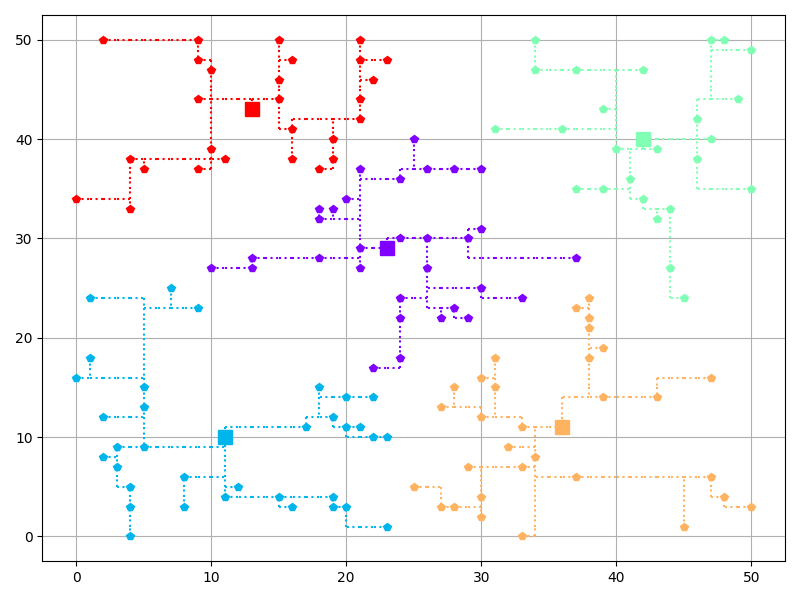
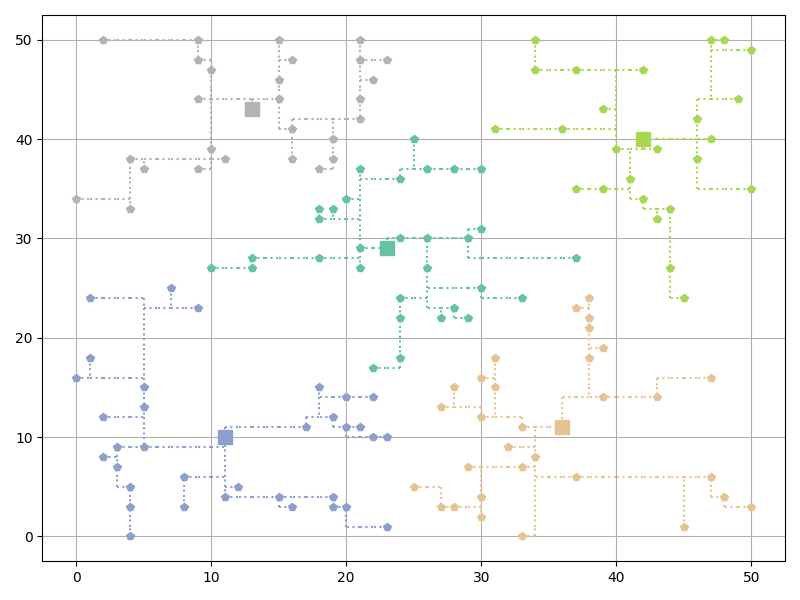
Color update

diff --git a/Huizen&Batterijen/experiment/grafiek.py b/Huizen&Batterijen/experiment/grafiek.py
@@ -1,37 +1,43 @@
 import seaborn as sns
 import pandas as pd
 import matplotlib.pyplot as plt
+from matplotlib import cm
+import numpy as np
 import os
 
 cwd = os.getcwd()
 sep = os.sep
+kleuren = cm.Set2(np.linspace(0, 1, 4))
 
 
 def histogram():
-    bestand = f'gecombineerd.csv'
-    df = pd.read_csv(bestand)
+    kmeans = pd.read_csv('KMeans_3_experiment.csv')
+    greedy = pd.read_csv('Greedy_3_experiment.csv')
+    random = pd.read_csv('Random_3_experiment.csv')
+    hillclimb = pd.read_csv('Hill_3_experiment.csv')
+
 
     # gemiddelde = np.mean(data)
     # standaard_af = np.std(data)
     #
-    fig, axs = plt.subplots(2, 2)
-    axs[0, 0].hist(df['kmeans'], density=True, color='r')
-    axs[0, 0].set_title('KMeans')
-    axs[1, 0].hist(df['greedy'], density=True, color='b')
-    axs[1, 0].set_title('Greedy')
-    axs[0, 1].hist(df['random'], density=True, color='g')
-    axs[0, 1].set_title('Random')
-    axs[1, 1].hist(df['hillclimber'], density=True, color='c')
-    axs[1, 1].set_title('Hill Climber')
+    # fig, axs = plt.subplots(2, 2)
+    # axs[0, 0].hist(kmeans, density=True, color='r', bins=1000)
+    # axs[0, 0].set_title('KMeans')
+    # axs[1, 0].hist(greedy, density=True, color='b', bins=1000)
+    # axs[1, 0].set_title('Greedy')
+    # axs[0, 1].hist(random, density=True, color='g', bins=1000)
+    # axs[0, 1].set_title('Random')
+    # axs[1, 1].hist(hillclimb, density=True, color='c', bins=1000)
+    # axs[1, 1].set_title('Hill Climber')
 
-    # plt.hist(df['kmeans'], density=True, color='r', label='KMeans', alpha=0.5, bins=50)
-    # plt.hist(df['greedy'], density=True, color='b', label='Greedy', alpha=0.5, bins=50)
-    # plt.hist(df['random'], density=True, color='g', label='Random', alpha=0.5, bins=50)
-    # plt.hist(df['hillclimber'], density=True, color='c', label='Hill Climber', alpha=0.5, bins=50)
-    # sns.kdeplot(df['kmeans'], linewidth=2)
-    # sns.kdeplot(df['greedy'], linewidth=2)
-    # sns.kdeplot(df['random'], linewidth=2)
-    # sns.kdeplot(df['hillclimber'], linewidth=2)
+    plt.hist(kmeans, density=True, color=kleuren[0], label='KMeans', alpha=0.5, bins=50)
+    plt.hist(greedy, density=True, color=kleuren[1], label='Greedy', alpha=0.5, bins=50)
+    plt.hist(random, density=True, color=kleuren[2], label='Random', alpha=0.5, bins=50)
+    plt.hist(hillclimb, density=True, color=kleuren[3], label='Hill Climber', alpha=0.5, bins=50)
+    sns.kdeplot(kmeans, linewidth=2)
+    sns.kdeplot(greedy, linewidth=2)
+    sns.kdeplot(random, linewidth=2)
+    sns.kdeplot(hillclimb, linewidth=2)
 
     plt.legend(loc='upper right')
     plt.show()

diff --git a/code/visualisatie/smartgrid.py b/code/visualisatie/smartgrid.py
@@ -16,7 +16,7 @@ def visualisatie(methode: str, wijk_nummer: int) -> None:
     bestand = open(cwd + pad)
     data = json.load(bestand)
 
-    kleuren = cm.rainbow(np.linspace(0, 1, len(data) - 1))
+    kleuren = cm.Set2(np.linspace(0, 1, len(data) - 1))
 
     # Grid parameters
     plt.rcParams["figure.figsize"] = [8.00, 6.00]
@@ -53,3 +53,11 @@ def visualisatie(methode: str, wijk_nummer: int) -> None:
     wijknummer = data[0]['district']
     plt.savefig(f"figures/smartgrid_{wijknummer}_{methode}.png")
     plt.clf()
+
+
+def vernieuw_grids():
+    methods = ["Greedy", "Hill", "KMeans", "Random"]
+    wijken = range(1, 4)
+    for method in methods:
+        for wijk in wijken:
+            visualisatie(method, wijk)

diff --git a/main.py b/main.py
@@ -1,5 +1,5 @@
 from code.helpers import experiment
-from code.visualisatie import grafiek
+from code.visualisatie import grafiek, smartgrid
 import os
 
 
@@ -23,5 +23,8 @@ if __name__ == "__main__":
         cwd = os.getcwd()
         grafiek.hill_climber_grafiek(f'{cwd}/Huizen&Batterijen/experiment/'
                                      f'Hill_Climb_Run_Hill_experiment.csv')
+    elif algoritme_kiezen == 'Vernieuw':
+        cwd = os.getcwd()
+        smartgrid.vernieuw_grids()
     else: 
         print('Invalid Argument')

diff --git a/Huizen&Batterijen/experiment/testen.py b/Huizen&Batterijen/experiment/testen.py
@@ -1,10 +1,16 @@
 import os
 import pandas as pd
-from scipy.stats import shapiro
+from scipy.stats import f_oneway, kruskal
 
 cwd = os.getcwd()
 sep = os.sep
 
 bestand = f'gecombineerd.csv'
 df = pd.read_csv(bestand)
-shapiro(df['kmeans'])
+kmeans = df['kmeans'].dropna()
+greedy = df['greedy'].dropna()
+random = df['random'].dropna()
+hillclimb = df['hillclimber'].dropna()
+
+print(f'One-Way ANOVA: {f_oneway(kmeans, greedy, random, hillclimb)}')
+print(f'Kruskal-Wallis: {kruskal(kmeans, greedy, random, hillclimb)}')
